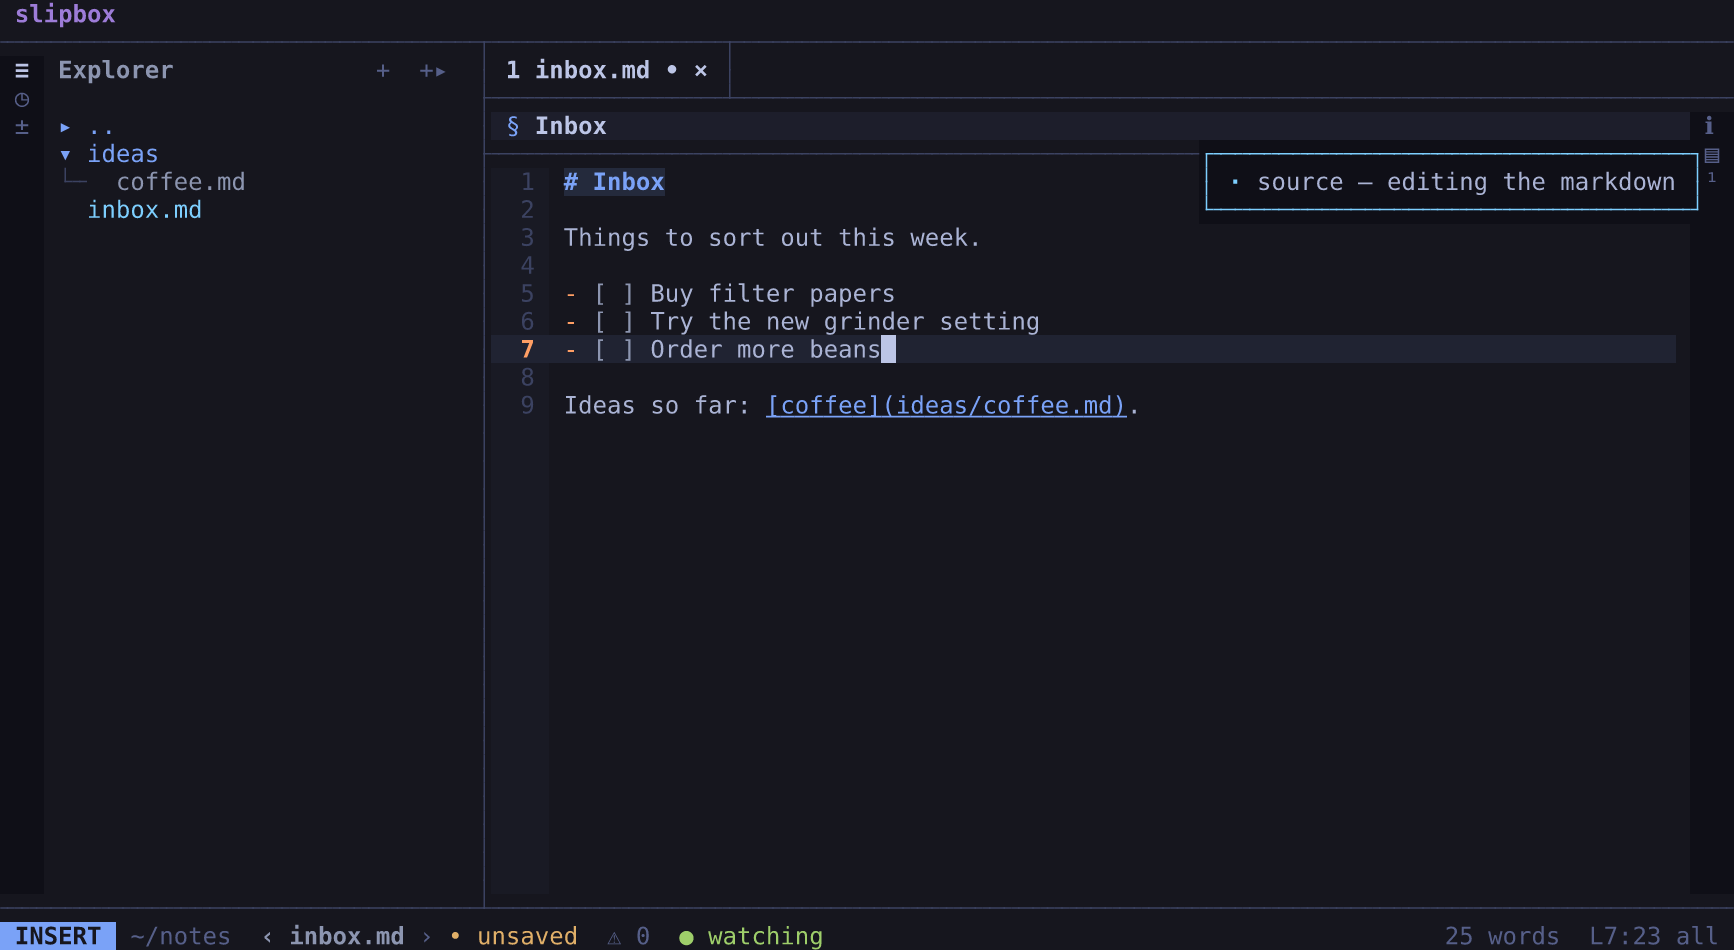
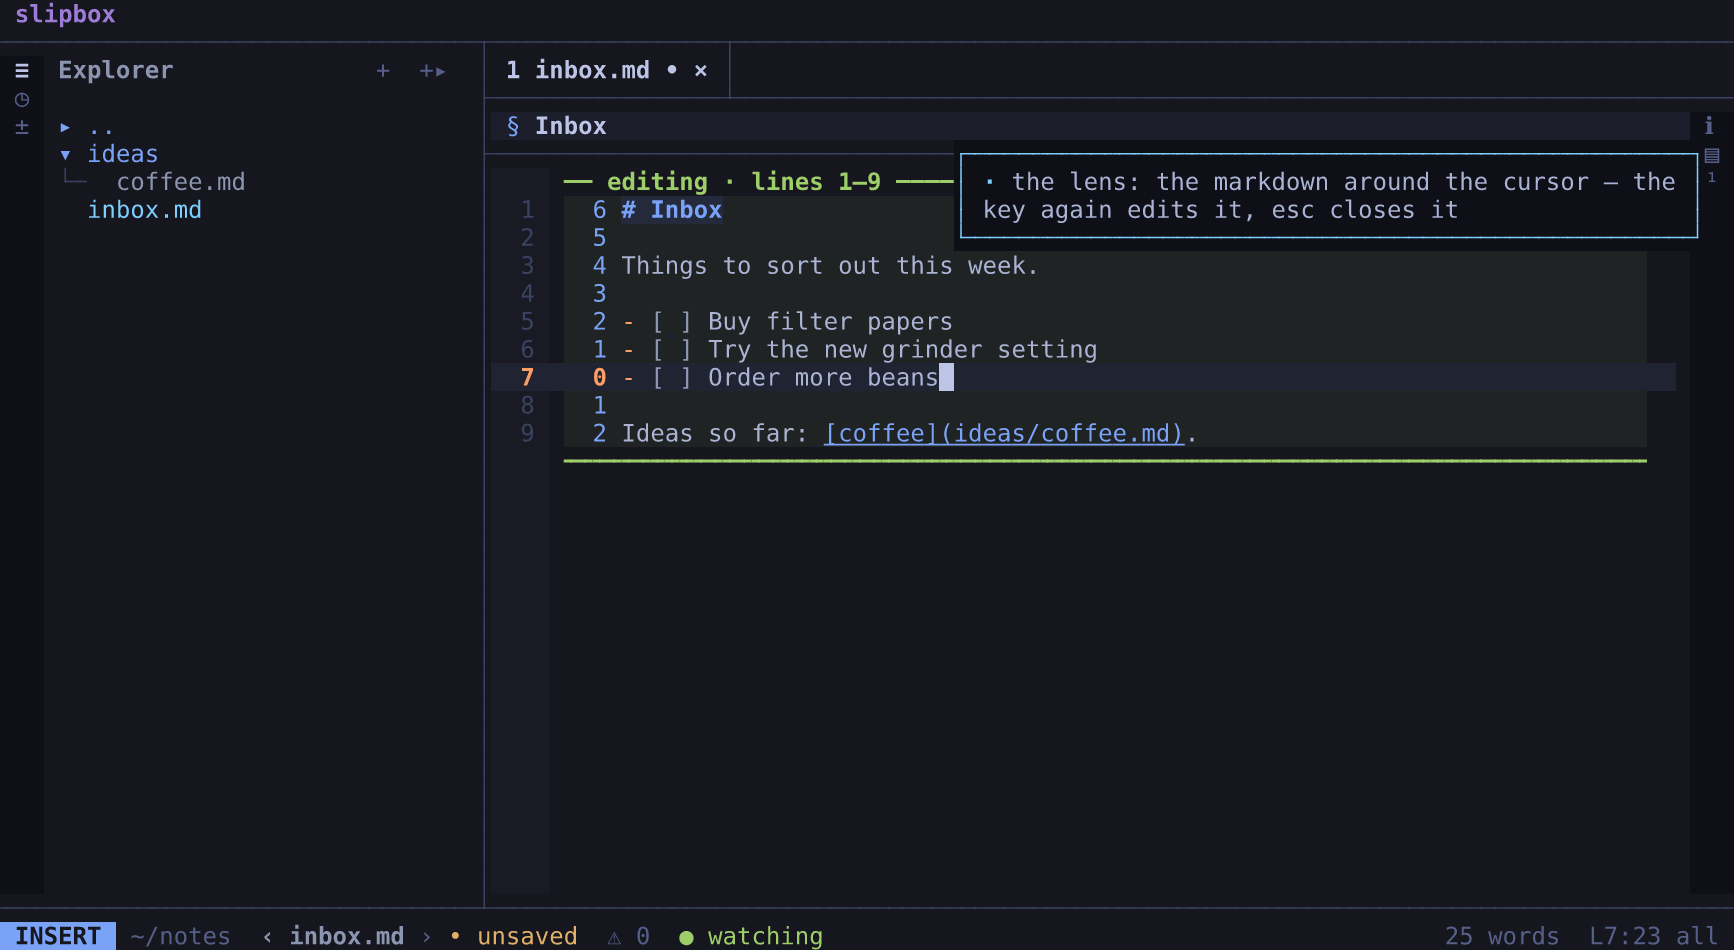
fix(tui): the editing keys open the lens by default
On a rendered note, `i`, `a`, `o` and the other editing keys swapped the whole note for its Markdown (source mode),
and nothing on screen said `ctrl+k` was the way back: the lens, the editing D147 chose, was behind
`edit_in = "live"`. Now `[editor] edit_in` defaults to "live": the first press opens the lens on the cursor's block,
the second types, and `esc` `esc` leaves. `edit_in = "source"` keeps the old way.

A new note (`ctrl+n`, a link to a note not made yet) is typed into at once in either mode: making it was the editing
key's first press. Under the lens it had opened the lens without typing, and its first line break went in anyway.

The unit tests' harness and the terminal scenarios keep typing in source mode at once, as they were written; the lens's
tests turn it on, a new one checks the shipped default opens the lens for i, a and o, and ctrl+n's runs in both modes.
The getting-started guide walks through the lens, its screenshot retaken; the manual, the README and the design say
the new default (D224, 4.14).

Fixes #26

Changed region(s): [[0.3114, 0.1526, 0.9654, 0.4884]]

diff --git a/tests/tui.test.ts b/tests/tui.test.ts
@@ -126,6 +126,9 @@ async function harness(opts: Opts = {}): Promise<Harness> {
   config.ui.lines = "heavy";
   // Laid out without the gutter (on by default): the tests of line numbers, and what's drawn in it, turn it on.
   config.ui.line_numbers = false;
+  // The editing keys type in source mode at once (the lens by default): the editing tests are about what's typed, and
+  // the lens's tests, the default's own among them, turn it back on.
+  config.editor.edit_in = "source";
   config.walk.exclude = ["drafts/"];
   opts.config?.(config);
   const loc = opts.loc ?? locateVault({ root });
@@ -2636,6 +2639,23 @@ describe("the lens (live preview: space n l, i/a/o with edit_in = live)", () => 
     await h.keys("escape");
     expect(v.live).toBe(false);
     expect(lens().top).toBe(-1);
+  });
+  test("by default i, a and o open it, never source mode; the key again edits, and esc esc leaves the render as it was", async () => {
+    for (const key of ["i", "a", "o"]) {
+      const { h, v, goto, lens } = await setup((c) => (c.editor.edit_in = DEFAULT_CONFIG.editor.edit_in));
+      goto("Para 7 with");
+      await h.keys(key);
+      expect(v.live).toBe(true);
+      expect(v.source).toBeFalsy();
+      expect(v.insert).toBeFalsy();
+      expect(lens().source.join("\n")).toContain("Para 7 with **bold**.");
+      await h.keys(key);
+      expect(v.insert).toBe(true);
+      expect(v.source).toBeFalsy();
+      await h.keys("escape", "escape");
+      expect(v.live).toBe(false);
+      expect(v.source).toBeFalsy();
+    }
   });
   test("its counters: each row's distance from the cursor's (0) in a column of its own, the lens's accent; the gutter its lines' numbers; relative_numbers = off: none", async () => {
     for (const relative of ["lens", "off"] as const) {
@@ -9076,20 +9096,23 @@ describe("pictures (12.x)", () => {
 });
 
 describe("creating notes and folders", () => {
-  test("ctrl+n: a name, the note beside this one with its title, opened and typed into", async () => {
-    const root = makeVault();
-    const h = await harness({ root, open: "notes/alpha.md" });
-    await h.keys("ctrl+n");
-    expect(h.frame()).toContain("new note in notes/");
-    for (const c of "idea") await h.keys(c);
-    await h.keys("enter");
-    expect(readFileSync(join(root, "notes", "idea.md"), "utf8")).toBe("# idea\n\n");
-    const v = h.app.view!;
-    expect(v.buf.rel).toBe("notes/idea.md");
-    expect(v.insert).toBe(true);
-    await h.keys("h", "i", "escape", "ctrl+s");
-    expect(readFileSync(join(root, "notes", "idea.md"), "utf8")).toBe("# idea\n\nhi\n");
-    expect(h.app.graph.notes.has("notes/idea.md")).toBe(true);
+  test("ctrl+n: a name, the note beside this one with its title, opened and typed into — in the lens or source mode", async () => {
+    for (const edit_in of ["live", "source"] as const) {
+      const root = makeVault();
+      const h = await harness({ root, open: "notes/alpha.md", config: (c) => (c.editor.edit_in = edit_in) });
+      await h.keys("ctrl+n");
+      expect(h.frame()).toContain("new note in notes/");
+      for (const c of "idea") await h.keys(c);
+      await h.keys("enter");
+      expect(readFileSync(join(root, "notes", "idea.md"), "utf8")).toBe("# idea\n\n");
+      const v = h.app.view!;
+      expect(v.buf.rel).toBe("notes/idea.md");
+      expect(v.insert).toBe(true); // at once: making the note was the editing key's first press
+      expect(edit_in === "live" ? v.live : v.source).toBe(true);
+      await h.keys("h", "i", "escape", "ctrl+s");
+      expect(readFileSync(join(root, "notes", "idea.md"), "utf8")).toBe("# idea\n\nhi\n");
+      expect(h.app.graph.notes.has("notes/idea.md")).toBe(true);
+    }
   });
   test(":new takes folders (made) and other note formats; an existing file opens; outside the vault is refused", async () => {
     const root = makeVault();

diff --git a/tests/e2e/run.ts b/tests/e2e/run.ts
@@ -62,6 +62,16 @@ process.on("SIGINT", () => {
   process.exit(130);
 });
 
+/**
+ * A scenario's config with the editing keys typing in source mode at once, as the scenarios were written (the lens is
+ * the default; the screenshots keep it): one that wants the lens sets edit_in itself, or opens it with space n l.
+ */
+function sourceFirst(config: string): string {
+  if (/^edit_in\s*=/m.test(config)) return config;
+  if (/^\[editor\]$/m.test(config)) return config.replace(/^\[editor\]$/m, '[editor]\nedit_in = "source"');
+  return `${config}\n[editor]\nedit_in = "source"\n`;
+}
+
 async function runAll(): Promise<void> {
   await pane.measure();
   console.log(`pane ${pane.id}: ${pane.cols}×${pane.rows}`);
@@ -72,7 +82,7 @@ async function runAll(): Promise<void> {
       console.log(`- ${s.name} (skipped: needs ${need.cols ?? "any"}×${need.rows ?? "any"})`);
       continue;
     }
-    const session = new Session(pane, s.options);
+    const session = new Session(pane, { ...s.options, config: sourceFirst(s.options?.config ?? "") });
     current = session;
     const t0 = Date.now();
     let error: string | null = null;

diff --git a/src/tui/app.ts b/src/tui/app.ts
@@ -4229,8 +4229,10 @@ export class App {
       // Typing on the line after the title's blank one (as `o` there would): a source view has no
       // row past the file's last line break, so the insert begins with one.
       if (r.created && v?.buf.abs === abs) {
+        // Typed into at once, in the lens or source mode (`edit_in`): making the note was the editing key's first press.
+        if (!editable(v)) this.setViewMode(v, this.editMode(v));
         startInsert(this, v, (w) => w.buf.source.length);
-        insertText(this, v, v.buf.eol);
+        if (v.insert) insertText(this, v, v.buf.eol);
       }
     };
     this.prompt(`new note in ${base ? `${base}/` : "the root"}`, make);

diff --git a/tests/e2e/shots.ts b/tests/e2e/shots.ts
@@ -68,6 +68,8 @@ const SHOTS: Shot[] = [
       await s.keys("/");
       await s.type("Try the new");
       await s.keys("enter", "escape", "o");
+      await s.status("LENS");
+      await s.keys("o");
       await s.status("INSERT");
       await s.type("Order more beans");
     },

diff --git a/src/core/config.ts b/src/core/config.ts
@@ -341,7 +341,7 @@ export const DEFAULT_CONFIG: Config = {
     command: "",
     remote: ["nvim"],
     autosave_ms: 30000,
-    edit_in: "source",
+    edit_in: "live",
     lens_min_rows: 6,
     lens_max: 0.5,
     auto_pairs: false,

diff --git a/docs/guides/getting-started.md b/docs/guides/getting-started.md
@@ -97,22 +97,23 @@ a folder, slipbox builds its search index in the background; in a large folder, 
 
 ## Change a line and save
 
-Put the cursor on "Try the new grinder setting" (after the search, it's there already) and press `o`. The note now
-shows its Markdown as written, a message says `source — editing the markdown`, and a new task, `- [ ]`, is started on
-the line below; the status line says `INSERT`. Type `Order more beans`.
+Put the cursor on "Try the new grinder setting" (after the search, it's there already) and press `o`. The lens opens:
+the part of the note around the cursor shows its Markdown as written, between two rules, with the rest of the note
+still rendered; the status line says `LENS`. Press `o` again: a new task, `- [ ]`, is started on the line below, and
+the status line says `INSERT`. Type `Order more beans`.
 
-![inbox.md in source mode, a new task line typed, the status line reading INSERT and unsaved](../images/getting-started-editing.png)
+![inbox.md with the lens open, a new task line typed in it, the status line reading INSERT and unsaved](../images/getting-started-editing.png)
 
-Press `esc` to stop typing: the status line says `SOURCE`, and a dot (`•`) by the tab's name says the note has
-unsaved changes. Press `ctrl+s` to save: the message is `saved inbox.md`, and the dot goes. Press `ctrl+k` to see the
-note rendered again.
+Press `esc` to stop typing: the status line says `LENS` again, and a dot (`•`) by the tab's name says the note has
+unsaved changes. Press `ctrl+s` to save: the message is `saved inbox.md`, and the dot goes. Press `esc` once more to
+close the lens: the note is all rendered again.
 
-`i` and `a` start typing before and after the cursor. While you type, the keys of any editor work: `shift` with an
-arrow selects, typing replaces the selection, and `ctrl+z` and `ctrl+y` undo and redo. Not typing, in source mode, the
-vim keys you may know work (`dd`, `cw`, `u` to undo, `.`); `ctrl+k` switches a note to source mode and back. If you
-forget `ctrl+s`, slipbox saves a changed note by itself after half a minute without a key. The [editing
-chapter](../manual/editing.md) has the rest, the lens among it: Markdown shown only around the cursor, the rest of the
-note left rendered (`space n l`).
+`i` and `a` start typing before and after the cursor, the same way: the first press opens the lens, the second types.
+While you type, the keys of any editor work: `shift` with an arrow selects, typing replaces the selection, and `ctrl+z`
+and `ctrl+y` undo and redo. Not typing, the vim keys you may know work (`dd`, `cw`, `u` to undo, `.`). If you forget
+`ctrl+s`, slipbox saves a changed note by itself after half a minute without a key. The [editing
+chapter](../manual/editing.md) has the rest, source mode among it: the whole note as Markdown, which `ctrl+k` switches
+to and back.
 
 ## Tick a task
 

diff --git a/blueprint/design/code-view.md b/blueprint/design/code-view.md
@@ -186,14 +186,15 @@ the tokens differ.
 
 - **The default view** of a file in a language it maps (`[render] code = "document"`; `"source"` opens code in
   source mode). `space n v` switches it to source mode and back, as for a note.
-- **Editing** (D131): as in a rendered note, the editing keys open the lens (their second press edits) or switch the
-  window to source mode, as `[editor] edit_in` says — the cursor keeping its character, though a cell's columns aren't
-  the file's. The lens (`space n l`) is the cursor's cell as written, highlighted as code, the notebook around it: the
-  cell whole when it fits within `lens_max` of the window — a function with its documentation, a class's head (its doc,
-  its line, its fields), a comment's box, a run of statements — alone, not padded with its neighbours; past its edge the
-  lens moves to the next cell whole. A cell too tall is its lines: a line, a doc comment whole, the run of imports
-  whole, the lens taking in its neighbours up to `lens_min_rows`, as a note's blocks. A cell's `✎` opens it on the whole
-  cell, however tall. `esc esc` closes it, the notebook drawn again on the new parse.
+- **Editing** (D131): as in a rendered note, the editing keys open the lens (their second press edits), or switch the
+  window to source mode with `[editor] edit_in = "source"` — the cursor keeping its character, though a cell's columns
+  aren't the file's. The lens (`space n l`) is the cursor's cell as written, highlighted as code, the notebook around
+  it: the cell whole when it fits within `lens_max` of the window — a function with its documentation, a class's head
+  (its doc, its line, its fields), a comment's box, a run of statements — alone, not padded with its neighbours; past
+  its edge the lens moves to the next cell whole. A cell too tall is its lines: a line, a doc comment whole, the run of
+  imports whole, the lens taking in its neighbours up to `lens_min_rows`, as a note's blocks. A cell's `✎` opens it on
+  the whole cell, however tall. `esc esc` closes it, the notebook drawn again on the new parse.
+
 - **The cursor** is on the text of a cell's rows, never on its border or padding; a header is decoration, a frame
   row the cursor passes over. The rows of code keep a map of each cell to its place in the file, so find, a
   selection, problem marks, a language server's hover and jumps all land where they are in the file; documentation's

diff --git a/docs/manual/editing.md b/docs/manual/editing.md
@@ -15,9 +15,9 @@ keys are there too, for those who want them: [The vim keys](#the-vim-keys) expla
 While you edit, slipbox is in one of two states: typing, or not typing. While you type, keys put text in. While you
 don't, keys are commands: `j` moves down, `u` undoes, and so on. Three keys are all you need to go between the two:
 
-- `i` starts typing at the cursor. On a rendered note, it first shows the note as its Markdown (source mode), so you
-  type into the text as it is written.
-- `esc` stops typing. Your keys are commands again.
+- `i` starts typing at the cursor. On a rendered note, the first `i` opens the lens: the Markdown around the cursor,
+  as it is written, with the rest of the note still rendered. The second `i` types into it.
+- `esc` stops typing. Your keys are commands again, and a second `esc` closes the lens.
 - `ctrl+s` saves, typing or not.
 
 The status line's chip, at its left, says where you are: `INSERT` while you type, `SOURCE` in source mode, `LENS` in
@@ -36,7 +36,7 @@ the lens.
 | select | `shift` with a key that moves (`ctrl+shift+left` by word), or drag with the mouse |
 | replace the selection | type, or paste; `backspace` or `delete` deletes it |
 | copy / cut / paste | `ctrl+c` / `ctrl+x` / `ctrl+v` |
-| see the note rendered again | `ctrl+k` |
+| see the whole note as Markdown, and back | `ctrl+k` (source mode) |
 
 A few things work differently from a desktop editor:
 
@@ -89,9 +89,9 @@ note you land on.
 On a rendered note, an editing key (`i`, `a`, `o` and their capitals) opens the way `editor.edit_in` says
 ([Configuration](configuration.md)):
 
-- `"source"`, the default: the window switches to source mode, and the key edits at once.
-- `"live"`: the first press opens the lens on the cursor's block, and the second edits. `esc` `esc` leaves the way you
-  came: the first stops typing, the second closes the lens.
+- `"live"`, the default: the first press opens the lens on the cursor's block, and the second edits. `esc` `esc`
+  leaves the way you came: the first stops typing, the second closes the lens.
+- `"source"`: the window switches to source mode, and the key edits at once.
 
 Either way, `ctrl+k` and `space n l` open the other one.
 

diff --git a/blueprint/design/tui.md b/blueprint/design/tui.md
@@ -957,8 +957,8 @@ the top one is labelled with its lines (`━━ source · lines 12–18 ━━`)
 (a paragraph, a heading, a table, a code block, a quote) or a list's top-level item, each with the
 blank lines after it, so the blocks cover the note.
 
-**The session.** With `[editor] edit_in = "live"`, `i` `a` `o` and the other editing keys open the
-lens in normal mode, the block as written, and edit on their second press — as `esc esc` leaves, typing
+**The session.** `i` `a` `o` and the other editing keys open the lens in normal mode (`[editor] edit_in =
+"live"`, the default: D224), the block as written, and edit on their second press — as `esc esc` leaves, typing
 first, then the lens; `space n l` (`:live`) opens it too. A yank isn't an edit: it goes on at once.
 The chip reads `LENS` (`INSERT` while typing). `esc` from typing goes to normal mode with the lens
 still open — the vim commands work on what's in it — and `esc` in normal mode closes it: everything
@@ -1111,8 +1111,9 @@ the only one (`16.16`, `16.17`; D112): Org and AsciiDoc files open as text.
   the explorer): a name, from the current note's folder — or the explorer's selected folder when it
   has focus, or the root with a leading `/` — and folders on the way are made. `.md` is added
   unless the name has a known extension (`.toml`, `.py`…). A note starts with its title (`# Name`),
-  opens, and is typed into on the line after the blank one; an
-  existing file just opens. Nothing is made outside the root, through a symlink or otherwise. A note in a root
+  opens, and is typed into on the line after the blank one, in the lens or source mode as `edit_in` says (at once:
+  making it was the editing key's first press); an existing file just opens. Nothing is made outside the root, through
+  a symlink or otherwise. A note in a root
   nested in this one is made there and opens in that root; one under a folder the walk leaves out (`walk.exclude`)
   is made and opens, but isn't one of the root's notes (nor its folder one of its folders), as the walk would say.
   **A name another note has** (`17.5`) would make `[[name]]` reach either: the prompt comes back

diff --git a/blueprint/decisions/editing.md b/blueprint/decisions/editing.md
@@ -198,6 +198,8 @@ Editing).
 
 ## D147: Live preview is the lens (4.14, 2026-09-28)
 
+> **Detailed by D224 (2026-10-13):** the editing keys open it by default; `edit_in = "source"` keeps source mode.
+
 **Decision:** Live preview is chosen, as a lens, reversing D134's "not chosen". Reading, everything is rendered.
 Editing, whole blocks around the cursor are shown as their markdown between two clear rules, the rest rendered above
 and below: the rendered layout with the block under the cursor swapped for its source layout (D146), edited in place.
@@ -399,3 +401,21 @@ with the first write (a4bac42) without a decision.
 
 **Why:** Ours, on recording it: replacing the link with a file would break whatever the link was for, and following
 it out of the root would write where D142 says slipbox never writes.
+
+## D224: The editing keys open the lens by default (4.14, 2026-10-13)
+
+**Decision:** `[editor] edit_in` defaults to `"live"`: on a rendered window, `i`, `a`, `o` and the other editing keys
+open the lens on the cursor's block, and their second press edits, as D147 has it. `"source"` stays the option that
+switches the window to source mode and edits at once. Decided by an issue (#26) and one pull request (D223).
+
+**Why:** The user, 2026-10-13, pressing `a` on a rendered note: "it goes to full source mode and never goes back …
+lens is not working at all". The lens had been built as the way to edit (D147) but shipped behind `edit_in = "live"`,
+so the editing keys swapped the whole note for its Markdown, and nothing on the screen said how to come back
+(`ctrl+k`). The lens keeps the note rendered around the edit, says how to leave (`esc` `esc`), and is what the user
+expected an editing key to open.
+
+**Cost:** A changed default, before 1.0: whoever relied on the editing keys typing at once sets `edit_in = "source"`
+(the changelog says so). The editing keys need a second press on a rendered note.
+
+**Not chosen:** keeping `"source"` and making its way back clearer (a hint, `esc` leaving source mode), because
+the lens is the editing D147 chose, and source mode stays one key away (`ctrl+k`).

diff --git a/README.md b/README.md
@@ -69,10 +69,11 @@ else, and `?` lists every key, so nothing needs memorising:
   `:%s/old/new/g`), `ctrl+shift+h` in every note, `:` opens the command palette, and `v` selects then `y` copies.
 - **Panes:** `space e` explorer and `space o` outline (each opens, then focuses, then closes; `esc` returns to the
   note), `ctrl+w v` split, `ctrl+t c` new tab. Everything is clickable too.
-- **Editing:** `i`, `a` or `o` start typing, in source mode (`ctrl+k` or `space n v` switches to it and back) or in
-  the lens (`space n l`: the Markdown around the cursor between two rules, the rest left rendered). The vim commands
-  work (`dw`, `ciw`, `p`, `u`, `.`); `ctrl+s` saves, and autosave does after a pause. `ctrl+l` (or `space n t`, or a
-  click) ticks a task; `space n e` hands the note to your editor, `space n s` to a running nvim.
+- **Editing:** `i`, `a` or `o` open the lens, the Markdown around the cursor between two rules with the rest left
+  rendered, and the key again starts typing there; `ctrl+k` (or `space n v`) shows the whole note as Markdown, source
+  mode, and back. The vim commands work (`dw`, `ciw`, `p`, `u`, `.`); `ctrl+s` saves, and autosave does after a pause.
+  `ctrl+l` (or `space n t`, or a click) ticks a task; `space n e` hands the note to your editor, `space n s` to a
+  running nvim.
 - **Quitting:** `ctrl+q`, and slipbox remembers where you were.
 
 Every key is in [Keys](docs/manual/keys.md), and all of them are configurable

diff --git a/docs/manual/code.md b/docs/manual/code.md
@@ -152,10 +152,11 @@ A cell folds whole: there's no folding inside one, of an `if` or a loop.
 The cursor moves over the text of the cells, never their borders. The outline (`space o`) and the breadcrumb list the
 definitions, as in source mode, and `] ]` and `[ [` move from one to the next.
 
-Editing works as in a rendered note ([Editing](editing.md) has the lens and source mode). By default the editing keys
-(`i`, `a`, `o`…) switch the window to source mode and type there; with `editor.edit_in = "live"` they open the lens on
-the cursor's cell instead: its lines as written, highlighted, the code view around it. `space n l` opens the lens too,
-and `space k e` opens it on a whole cell, however tall. `esc esc` closes the lens, and the cell is drawn again.
+Editing works as in a rendered note ([Editing](editing.md) has the lens and source mode). The editing keys (`i`, `a`,
+`o`…) open the lens on the cursor's cell: its lines as written, highlighted, the code view around it, and the key again
+types there. `space n l` opens the lens too, and `space k e` opens it on a whole cell, however tall. `esc esc` closes
+the lens, and the cell is drawn again. With `editor.edit_in = "source"`, the editing keys switch the window to source
+mode and type there instead.
 
 ## Source mode for code
 
